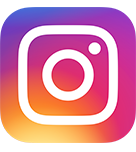
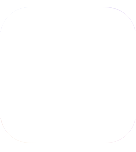
continuando o site

diff --git a/igreja/index.html b/igreja/index.html
@@ -11,13 +11,23 @@
     <div class='header'>
         <div class="class"><img src="imagens/1url.png"></div>
         <ul>
-            <li><a href="" >pregrações</a></li>
-            <li><a href="">mascara</a></li>
-            <li><a href="">os maiores hereges de todos</a></li>
+            <li><a href="">-pregrações-</a></li>
+            <li><a href="">-tutorial de beber agua-</a></li>
+            <li><a href="">-os maiores hereges de todos-</a></li>
+            <li><a href="">-clonar cartão-</a></li>
             
         </ul>
+    </div>
+    
+    <div class="corpo">
         <div class="ro21">
-            <a href="https://www.instagram.com/umpcentralvilar/"><img src="imagens/2url.png" alt=""></a>
+            <a target="_blank" href="https://www.instagram.com/umpcentralvilar/"><img src="imagens/2url.png" alt=""></a>
+        </div>
+        <div class="ro21">
+            <a target="_blank" href="https://www.facebook.com/ipcvt/"><img src="imagens/4url.png" alt=""></a>
+        </div>
+        <div class="ro21">
+            <a target="_blank" href="https://www.youtube.com/c/IPCVTIgrejaPresbiteriana"><img src="imagens/5url.png" alt=""></a>
         </div>
     </div>
 </body>

diff --git a/igreja/css/style-projeto.css b/igreja/css/style-projeto.css
@@ -42,6 +42,8 @@
     float: left;
 }
 
+
+
 .ro21 img{
     width: 50px;
     height: 50px;
@@ -49,4 +51,12 @@
     margin-right: 30px;
     margin-top: 5px;
     /* background-color: blue; */
+}
+.corpo{
+    background-image: url(../imagens/3url.png);
+    width: 100%;
+    height: 500px;
+    background-size: cover;
+    background-repeat: no-repeat ;
+    background-position: center;
 }
